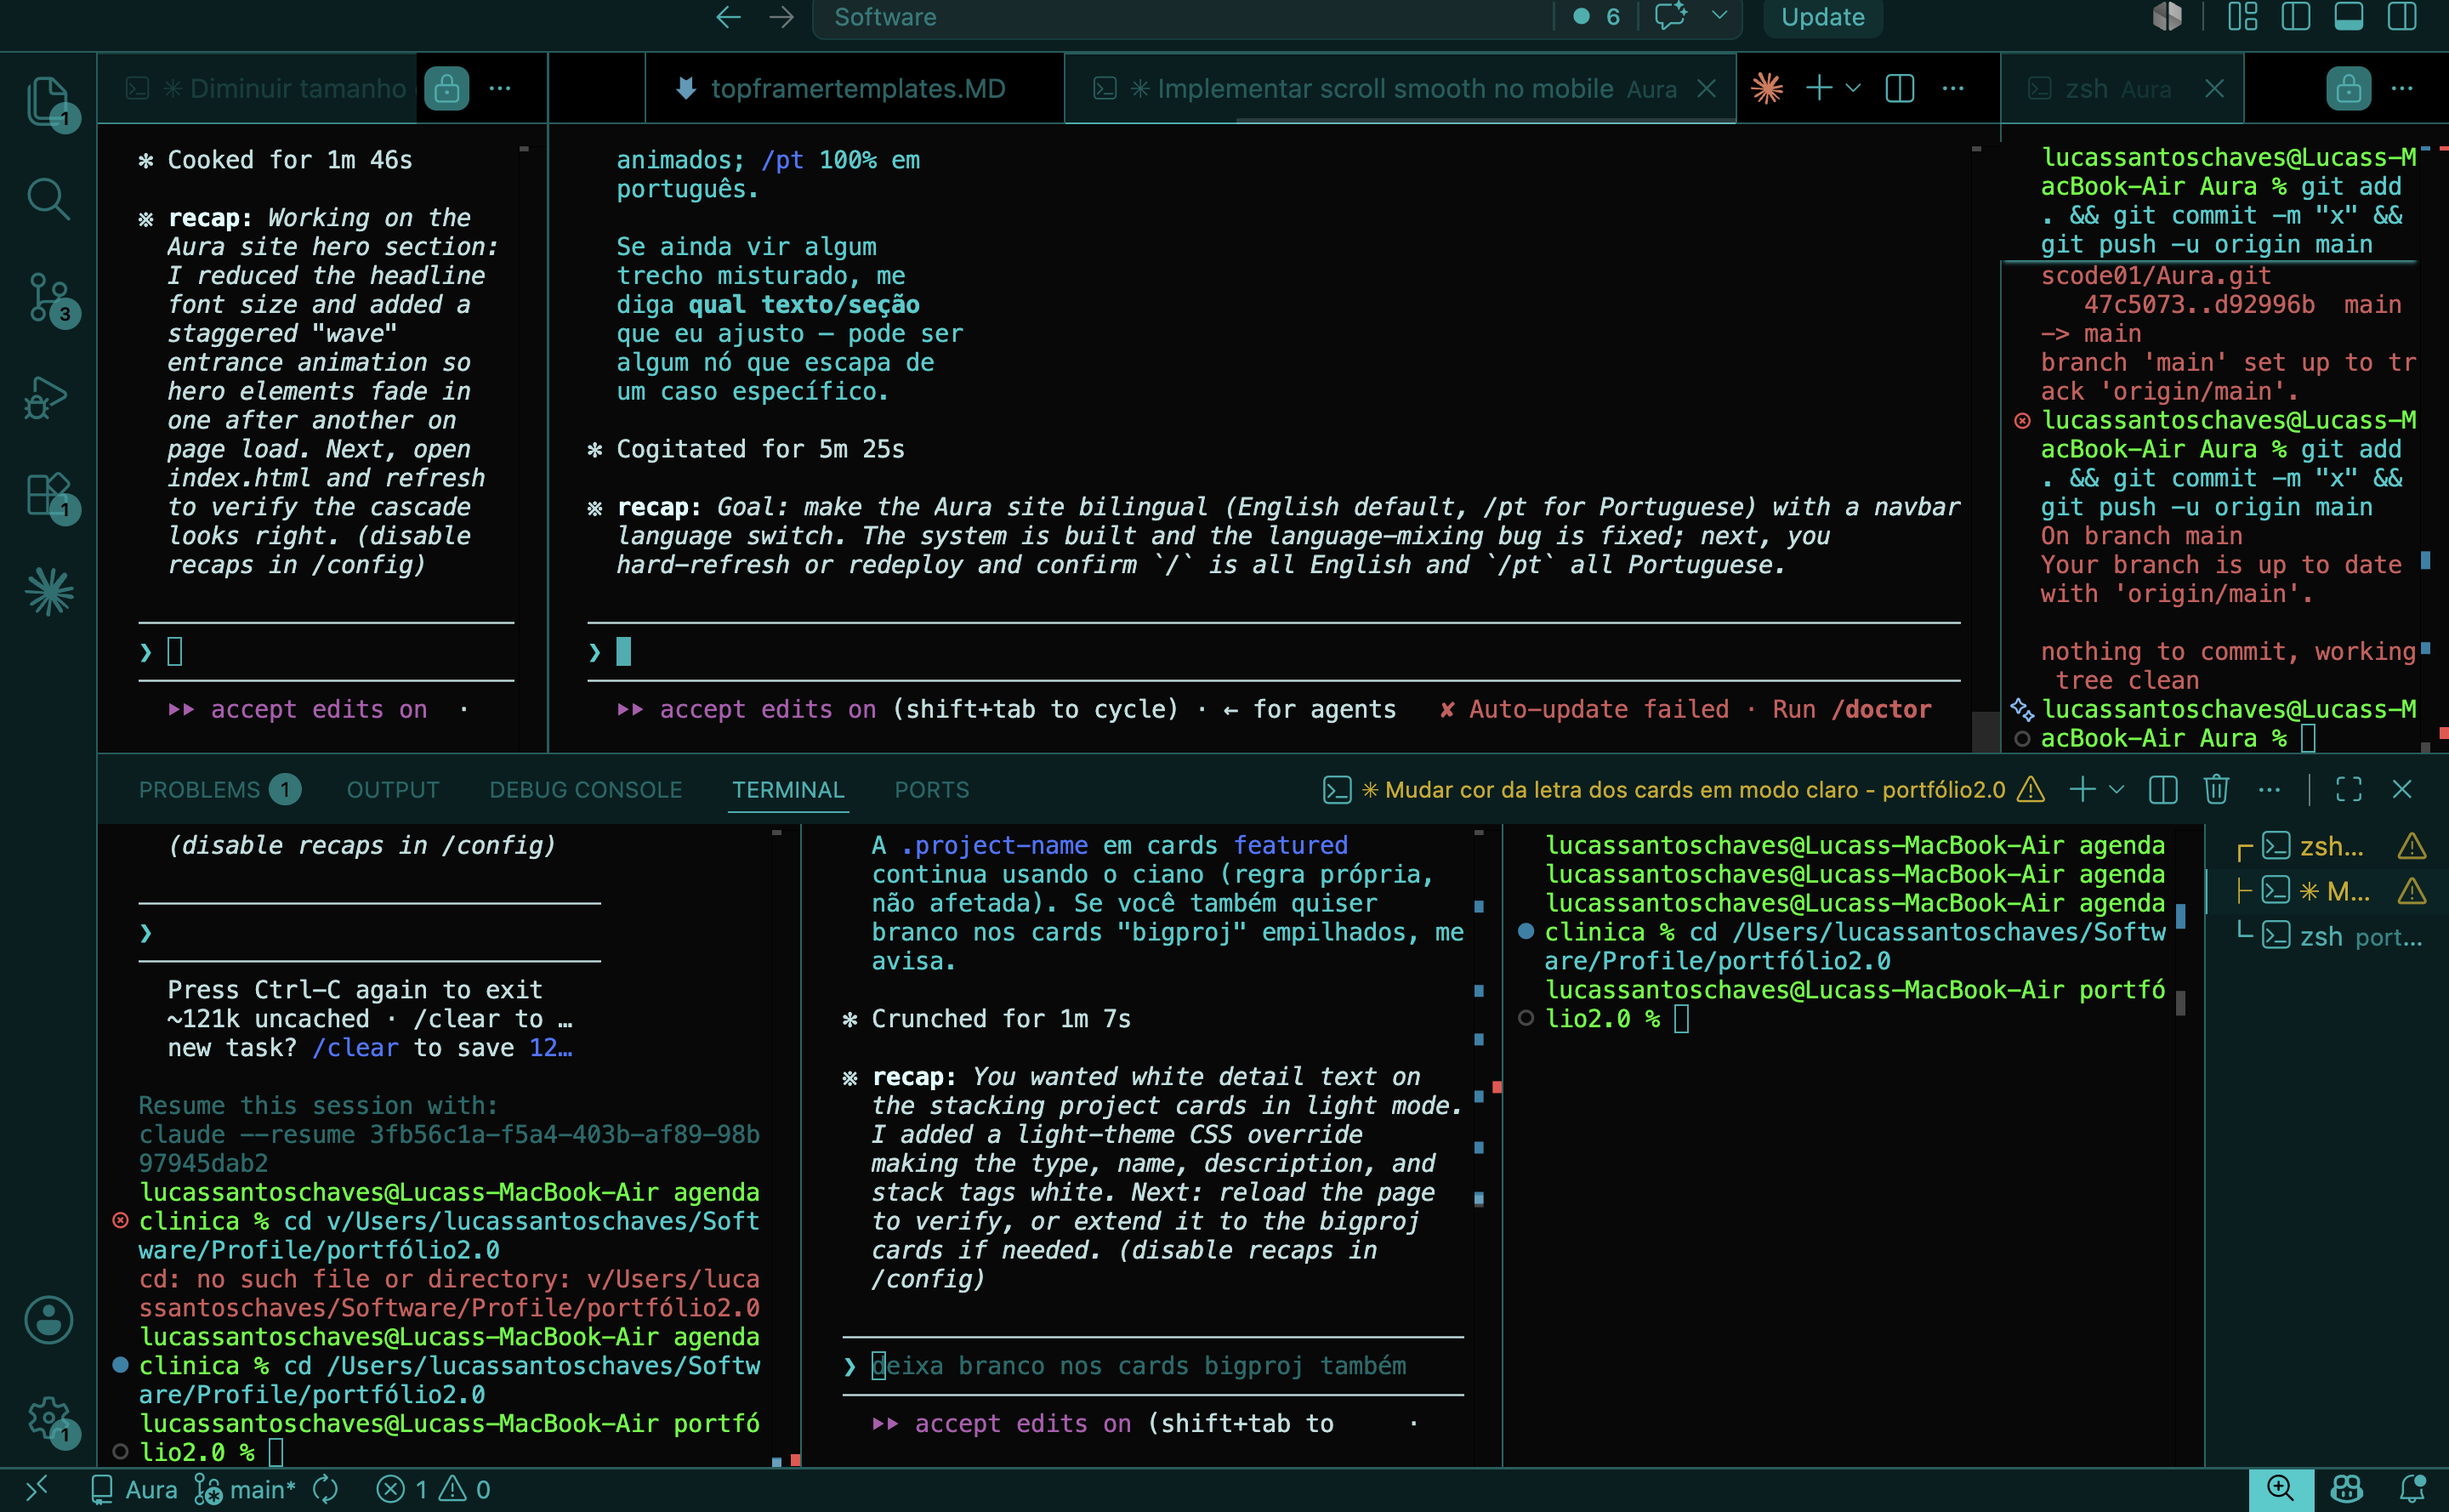
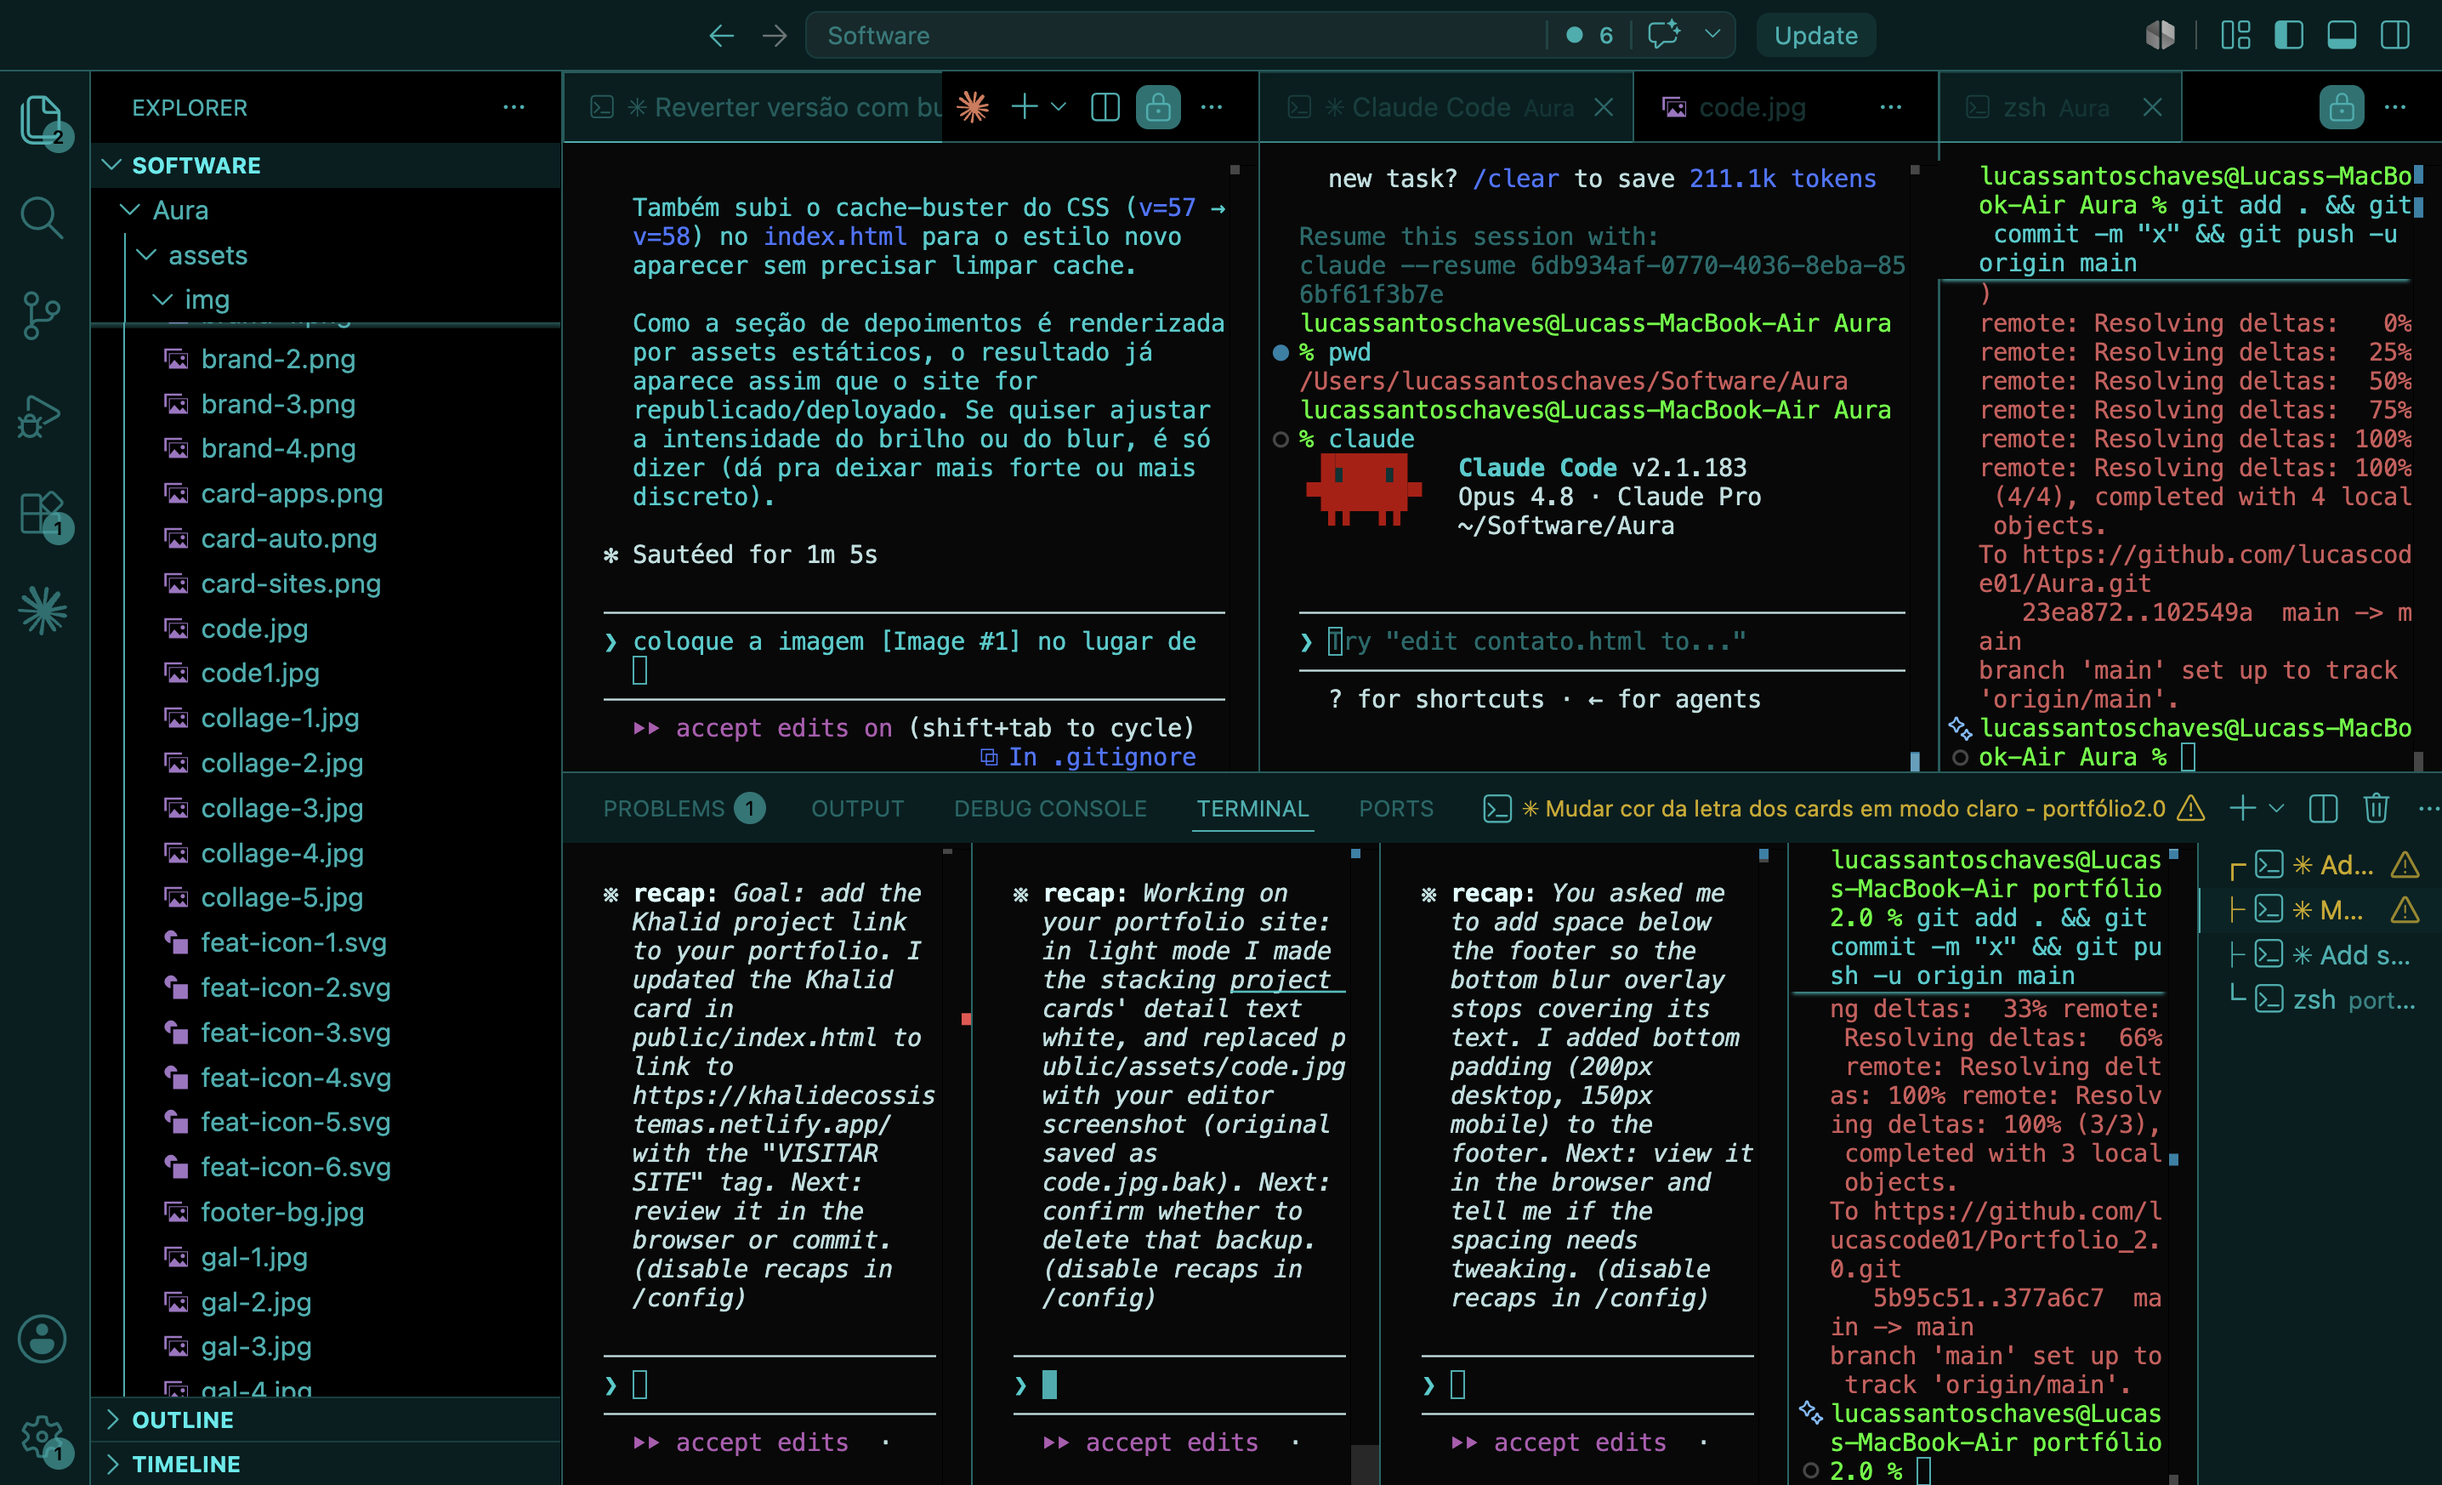
fix: imagem code.jpg cabe inteira no card (object-fit contain)

Changed region(s): [[0.0, 0.0, 1.0, 1.0], [0.8677, 0.7732, 0.8987, 0.8041]]

diff --git a/index.html b/index.html
@@ -19,7 +19,7 @@
 <meta name="twitter:card" content="summary_large_image" />
 <meta name="twitter:image" content="https://aurasoftware.cloud/assets/og-image.png" />
 <link rel="preload" href="assets/fonts/dmsans-latin.woff2" as="font" type="font/woff2" crossorigin />
-<link rel="stylesheet" href="styles.css?v=58" />
+<link rel="stylesheet" href="styles.css?v=59" />
 </head>
 <body>
 

diff --git a/styles.css b/styles.css
@@ -295,7 +295,8 @@ body.menu-open .hamburger span:nth-child(2) { transform: translate(-50%,-50%) ro
 }
 .split-img img {
   width: 100%; height: 100%;
-  object-fit: cover;
+  object-fit: contain;
+  background-color: #080808;
   border-radius: 20px;
   border: 1px solid rgba(255, 255, 255, 0.1);
   position: relative;
